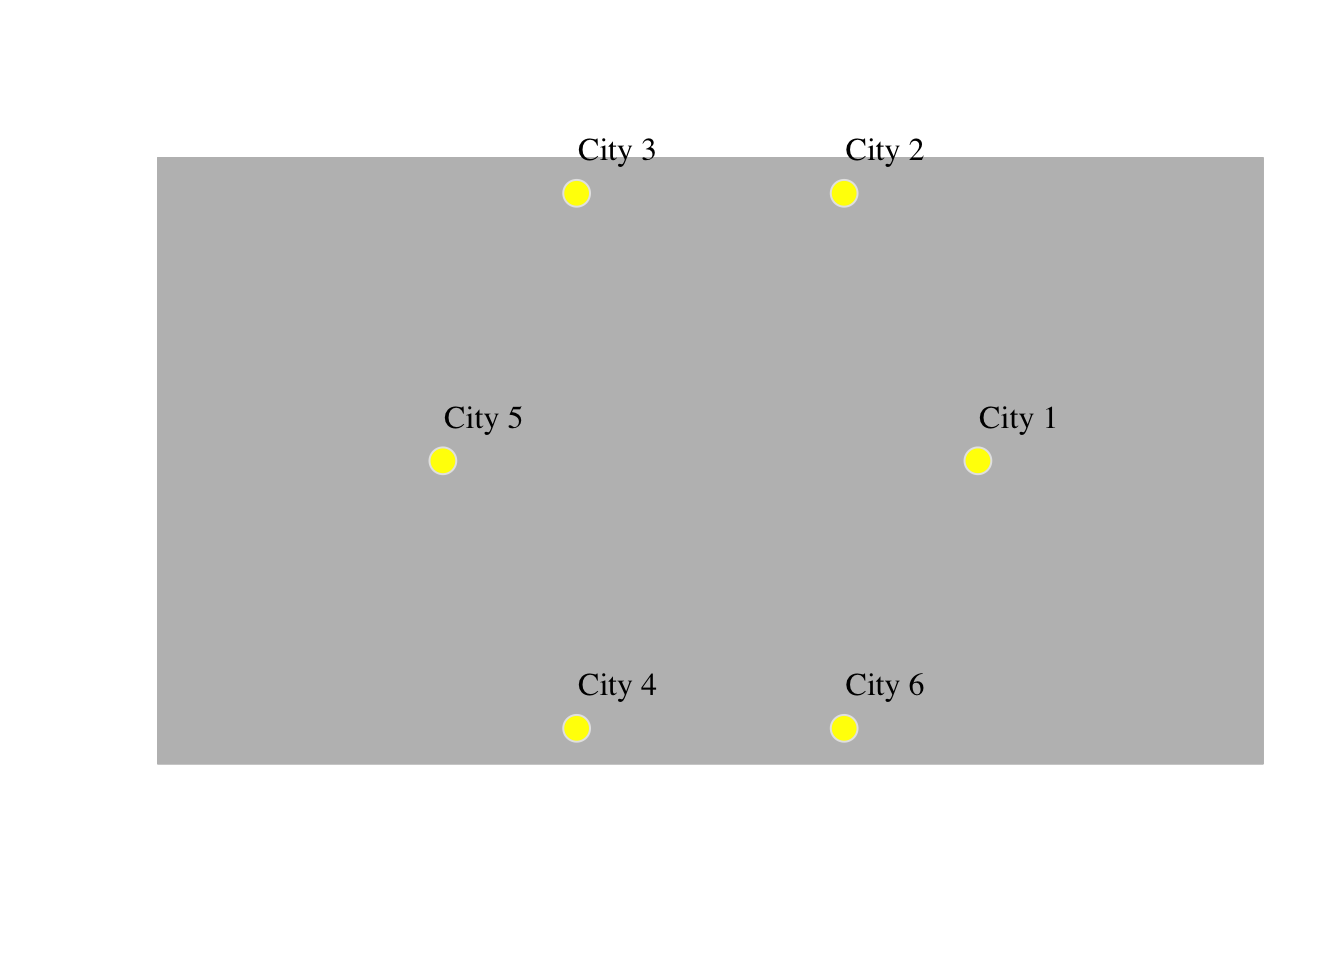
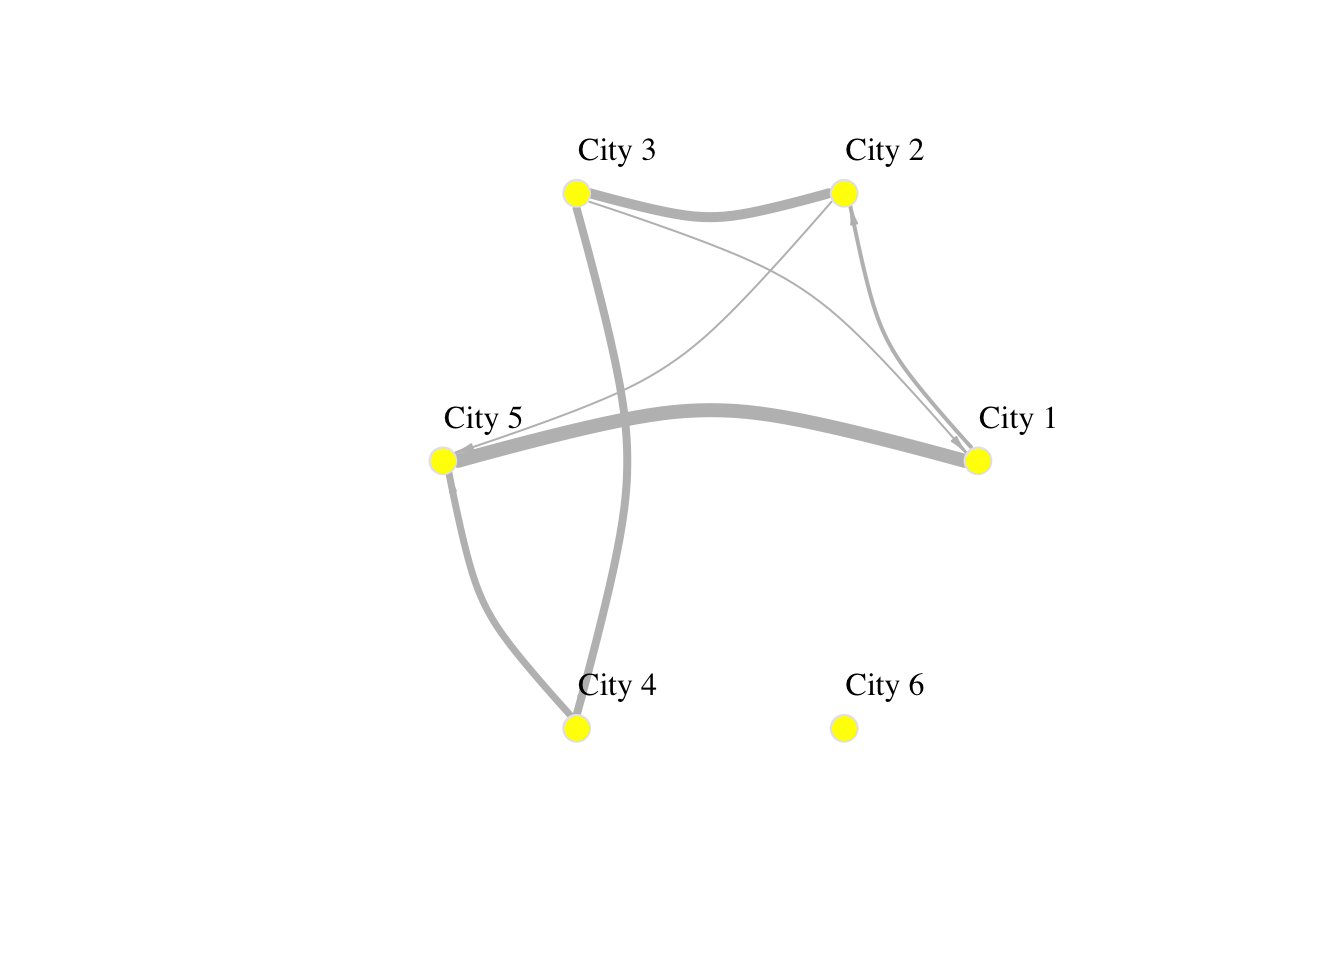
introduction-networks revision

diff --git a/docs/introduction-networks.html b/docs/introduction-networks.html
@@ -213,7 +213,6 @@ div.csl-indent {
   <li><a href="#degree" id="toc-degree" class="nav-link" data-scroll-target="#degree"><span class="header-section-number">2.3.3</span> Degree</a></li>
   <li><a href="#distance" id="toc-distance" class="nav-link" data-scroll-target="#distance"><span class="header-section-number">2.3.4</span> Distance</a></li>
   <li><a href="#centrality" id="toc-centrality" class="nav-link" data-scroll-target="#centrality"><span class="header-section-number">2.3.5</span> Centrality</a></li>
-  <li><a href="#hubs-and-authorities" id="toc-hubs-and-authorities" class="nav-link" data-scroll-target="#hubs-and-authorities"><span class="header-section-number">2.3.6</span> Hubs and authorities</a></li>
   </ul></li>
   </ul>
 </nav>
@@ -252,7 +251,7 @@ div.csl-indent {
 </section>
 <section id="creating-networks" class="level2" data-number="2.2">
 <h2 data-number="2.2" class="anchored" data-anchor-id="creating-networks"><span class="header-section-number">2.2</span> Creating networks</h2>
-<p>We first consider the components of a network object. Generally, a network (or a graph) consists of nodes (a.k.a. vertices) and edges (a.k.a. links). Edges link nodes to form a network. Networks are used as a tool to conceptualise many real-life situations, such as the friendships among members of a school year group, airline flights between cities or hyperlinks between websites.</p>
+<p>Networks are used as a tool to conceptualise many real-life situations where a group of items display connections among themselves, such as the friendships among members of a school year group, airline flights between cities or hyperlinks between websites. Generally, a network (or a graph) consists of nodes (a.k.a. vertices) and edges (a.k.a. links) which represent the connections between the nodes of the network.</p>
 <section id="starting-from-the-basics" class="level3" data-number="2.2.1">
 <h3 data-number="2.2.1" class="anchored" data-anchor-id="starting-from-the-basics"><span class="header-section-number">2.2.1</span> Starting from the basics</h3>
 <p>To understand the basic concepts and components of a network, we create a small example network in R using the igraph package. We create an undirected network of 5 nodes and 6 edges.</p>
@@ -299,7 +298,7 @@ div.csl-indent {
 <p><img src="introduction-networks_files/figure-html/unnamed-chunk-4-1.png" class="img-fluid" width="672"></p>
 </div>
 </div>
-<p>The network can also be defined as a list containing pairs of nodes with labels. In that case we do not need tospecify the number of nodes. We only specify the isolated nodes to be included.</p>
+<p>The network can also be defined as a list containing pairs of nodes with labels. In that case we do not need to specify the number of nodes. We only specify the isolated nodes to be included.</p>
 <div class="callout callout-style-default callout-note callout-titled">
 <div class="callout-header d-flex align-content-center">
 <div class="callout-icon-container">
@@ -328,16 +327,17 @@ Note
 <span id="cb4-12"><a href="#cb4-12" aria-hidden="true" tabindex="-1"></a></span>
 <span id="cb4-13"><a href="#cb4-13" aria-hidden="true" tabindex="-1"></a><span class="co"># plot</span></span>
 <span id="cb4-14"><a href="#cb4-14" aria-hidden="true" tabindex="-1"></a><span class="fu">plot</span>(network_isolated, </span>
-<span id="cb4-15"><a href="#cb4-15" aria-hidden="true" tabindex="-1"></a>      <span class="at">layout =</span> <span class="fu">layout.circle</span>(network_isolated),</span>
-<span id="cb4-16"><a href="#cb4-16" aria-hidden="true" tabindex="-1"></a>     <span class="at">vertex.frame.color=</span><span class="st">"red"</span>,  </span>
-<span id="cb4-17"><a href="#cb4-17" aria-hidden="true" tabindex="-1"></a>     <span class="at">vertex.label.color=</span><span class="st">"black"</span>,</span>
-<span id="cb4-18"><a href="#cb4-18" aria-hidden="true" tabindex="-1"></a>     <span class="at">vertex.label.cex=</span><span class="fl">0.9</span>, </span>
-<span id="cb4-19"><a href="#cb4-19" aria-hidden="true" tabindex="-1"></a>     <span class="at">vertex.label.dist=</span><span class="fl">2.3</span>, </span>
-<span id="cb4-20"><a href="#cb4-20" aria-hidden="true" tabindex="-1"></a>     <span class="at">edge.curved=</span><span class="fl">0.3</span>, </span>
-<span id="cb4-21"><a href="#cb4-21" aria-hidden="true" tabindex="-1"></a>     <span class="at">edge.arrow.size=</span>.<span class="dv">5</span>, </span>
-<span id="cb4-22"><a href="#cb4-22" aria-hidden="true" tabindex="-1"></a>     <span class="at">edge.color =</span> <span class="st">"blue"</span>, </span>
-<span id="cb4-23"><a href="#cb4-23" aria-hidden="true" tabindex="-1"></a>     <span class="at">vertex.color=</span><span class="st">"yellow"</span>, </span>
-<span id="cb4-24"><a href="#cb4-24" aria-hidden="true" tabindex="-1"></a>     <span class="at">vertex.size=</span><span class="dv">15</span>) </span></code><button title="Copy to Clipboard" class="code-copy-button"><i class="bi"></i></button></pre></div>
+<span id="cb4-15"><a href="#cb4-15" aria-hidden="true" tabindex="-1"></a>    <span class="at">layout =</span> <span class="fu">layout.circle</span>(network_isolated),</span>
+<span id="cb4-16"><a href="#cb4-16" aria-hidden="true" tabindex="-1"></a>     <span class="at">vertex.frame.color=</span><span class="st">"red"</span>,</span>
+<span id="cb4-17"><a href="#cb4-17" aria-hidden="true" tabindex="-1"></a>     <span class="at">vertex.color=</span><span class="st">"yellow"</span>, </span>
+<span id="cb4-18"><a href="#cb4-18" aria-hidden="true" tabindex="-1"></a>     <span class="at">vertex.size=</span><span class="dv">15</span>,</span>
+<span id="cb4-19"><a href="#cb4-19" aria-hidden="true" tabindex="-1"></a>     <span class="at">vertex.label.color=</span><span class="st">"black"</span>,</span>
+<span id="cb4-20"><a href="#cb4-20" aria-hidden="true" tabindex="-1"></a>     <span class="at">vertex.label.cex=</span><span class="fl">0.9</span>, </span>
+<span id="cb4-21"><a href="#cb4-21" aria-hidden="true" tabindex="-1"></a>     <span class="at">vertex.label.dist=</span><span class="fl">2.3</span>, </span>
+<span id="cb4-22"><a href="#cb4-22" aria-hidden="true" tabindex="-1"></a>     <span class="at">edge.curved=</span><span class="fl">0.3</span>, </span>
+<span id="cb4-23"><a href="#cb4-23" aria-hidden="true" tabindex="-1"></a>     <span class="at">edge.arrow.size=</span>.<span class="dv">5</span>, </span>
+<span id="cb4-24"><a href="#cb4-24" aria-hidden="true" tabindex="-1"></a>     <span class="at">edge.color =</span> <span class="st">"blue"</span></span>
+<span id="cb4-25"><a href="#cb4-25" aria-hidden="true" tabindex="-1"></a>     ) </span></code><button title="Copy to Clipboard" class="code-copy-button"><i class="bi"></i></button></pre></div>
 <div class="cell-output-display">
 <p><img src="introduction-networks_files/figure-html/unnamed-chunk-5-1.png" class="img-fluid" width="672"></p>
 </div>
@@ -349,7 +349,7 @@ Note
 <div class="cell">
 <div class="sourceCode cell-code" id="cb5"><pre class="sourceCode r code-with-copy"><code class="sourceCode r"><span id="cb5-1"><a href="#cb5-1" aria-hidden="true" tabindex="-1"></a><span class="fu">V</span>(network_isolated)</span></code><button title="Copy to Clipboard" class="code-copy-button"><i class="bi"></i></button></pre></div>
 <div class="cell-output cell-output-stdout">
-<pre><code>+ 6/6 vertices, named, from ec9e040:
+<pre><code>+ 6/6 vertices, named, from df876e3:
 [1] City 1 City 2 City 3 City 5 City 4 City 6</code></pre>
 </div>
 </div>
@@ -364,11 +364,11 @@ Note
 <div class="cell">
 <div class="sourceCode cell-code" id="cb9"><pre class="sourceCode r code-with-copy"><code class="sourceCode r"><span id="cb9-1"><a href="#cb9-1" aria-hidden="true" tabindex="-1"></a><span class="fu">V</span>(network_isolated)<span class="sc">$</span>population <span class="ot">&lt;-</span> <span class="fu">c</span>(<span class="dv">92000</span>, <span class="dv">549000</span>, <span class="dv">1786000</span>, <span class="dv">74000</span>, <span class="dv">8000</span>, <span class="dv">21000</span>)</span></code><button title="Copy to Clipboard" class="code-copy-button"><i class="bi"></i></button></pre></div>
 </div>
-<p>We can access the edges:</p>
+<p>We can also access the edges:</p>
 <div class="cell">
 <div class="sourceCode cell-code" id="cb10"><pre class="sourceCode r code-with-copy"><code class="sourceCode r"><span id="cb10-1"><a href="#cb10-1" aria-hidden="true" tabindex="-1"></a><span class="fu">E</span>(network_isolated)</span></code><button title="Copy to Clipboard" class="code-copy-button"><i class="bi"></i></button></pre></div>
 <div class="cell-output cell-output-stdout">
-<pre><code>+ 7/7 edges from ec9e040 (vertex names):
+<pre><code>+ 7/7 edges from df876e3 (vertex names):
 [1] City 1-&gt;City 2 City 2-&gt;City 3 City 2-&gt;City 5 City 3-&gt;City 1 City 3-&gt;City 4
 [6] City 4-&gt;City 5 City 5-&gt;City 1</code></pre>
 </div>
@@ -402,19 +402,19 @@ $population
 [1]   92000  549000 1786000   74000    8000   21000</code></pre>
 </div>
 </div>
-<p>We can also add a network attribute:</p>
+<p>And we can add network attributes:</p>
 <div class="cell">
 <div class="sourceCode cell-code" id="cb17"><pre class="sourceCode r code-with-copy"><code class="sourceCode r"><span id="cb17-1"><a href="#cb17-1" aria-hidden="true" tabindex="-1"></a>network_isolated<span class="sc">$</span>title <span class="ot">&lt;-</span> <span class="st">"Network of human mobility between cities"</span></span></code><button title="Copy to Clipboard" class="code-copy-button"><i class="bi"></i></button></pre></div>
 </div>
 </section>
 <section id="basic-visualisation" class="level3" data-number="2.2.3">
 <h3 data-number="2.2.3" class="anchored" data-anchor-id="basic-visualisation"><span class="header-section-number">2.2.3</span> Basic visualisation</h3>
-<p>You have already seen how we can visualise networks using the base R function <strong>plot</strong>. We will now elaborate on how individual components of the network can be visually adjusted using specific parameters in the plot function. More sophisticated data visualisations can be produced integrating geographic information, see Chapter 5 in <span class="citation" data-cites="roweetal2023-rps">Rowe, Cabrera-Arnau, and Piestrostefani (<a href="#ref-roweetal2023-rps" role="doc-biblioref">2023</a>)</span>.</p>
+<p>You have already seen how we can visualise networks using the base R function <code>plot()</code>. We will now elaborate on how individual components of the network can be visually adjusted using specific parameters in the plot function. More sophisticated data visualisations can be produced integrating geographic information, see Chapter 5 in <span class="citation" data-cites="roweetal2023-rps">Rowe, Cabrera-Arnau, and Piestrostefani (<a href="#ref-roweetal2023-rps" role="doc-biblioref">2023</a>)</span>, or using other packages such as <code>ggraph</code> in conjunction with <code>ggplot2</code> as we will see in the section on Percolation.</p>
 <div class="cell">
 <div class="sourceCode cell-code" id="cb18"><pre class="sourceCode r code-with-copy"><code class="sourceCode r"><span id="cb18-1"><a href="#cb18-1" aria-hidden="true" tabindex="-1"></a><span class="fu">plot</span>(network_isolated,</span>
 <span id="cb18-2"><a href="#cb18-2" aria-hidden="true" tabindex="-1"></a>     <span class="at">layout =</span> <span class="fu">layout.circle</span>(network_isolated),</span>
 <span id="cb18-3"><a href="#cb18-3" aria-hidden="true" tabindex="-1"></a>     <span class="co"># adjust nodes</span></span>
-<span id="cb18-4"><a href="#cb18-4" aria-hidden="true" tabindex="-1"></a>     <span class="at">vertex.frame.color =</span> <span class="st">"gray90"</span>,    <span class="co"># line colour</span></span>
+<span id="cb18-4"><a href="#cb18-4" aria-hidden="true" tabindex="-1"></a>     <span class="at">vertex.frame.color =</span> <span class="st">"gray90"</span>,   <span class="co"># line colour</span></span>
 <span id="cb18-5"><a href="#cb18-5" aria-hidden="true" tabindex="-1"></a>     <span class="at">vertex.label.color =</span> <span class="st">"black"</span>,    <span class="co"># label colour </span></span>
 <span id="cb18-6"><a href="#cb18-6" aria-hidden="true" tabindex="-1"></a>     <span class="at">vertex.label.cex =</span> <span class="dv">1</span>,            <span class="co"># label font size</span></span>
 <span id="cb18-7"><a href="#cb18-7" aria-hidden="true" tabindex="-1"></a>     <span class="at">vertex.label.dist =</span> <span class="dv">3</span>,           <span class="co"># label distance</span></span>
@@ -424,7 +424,7 @@ $population
 <span id="cb18-11"><a href="#cb18-11" aria-hidden="true" tabindex="-1"></a>     <span class="at">edge.curved=</span><span class="fl">0.3</span>,     <span class="co"># curvature</span></span>
 <span id="cb18-12"><a href="#cb18-12" aria-hidden="true" tabindex="-1"></a>     <span class="at">edge.arrow.size=</span><span class="fl">0.5</span>,  <span class="co"># size</span></span>
 <span id="cb18-13"><a href="#cb18-13" aria-hidden="true" tabindex="-1"></a>     <span class="at">edge.arrow.width=</span>.<span class="dv">5</span>,</span>
-<span id="cb18-14"><a href="#cb18-14" aria-hidden="true" tabindex="-1"></a>     <span class="at">edge.width=</span><span class="fu">E</span>(network_isolated)<span class="sc">$</span>weight,</span>
+<span id="cb18-14"><a href="#cb18-14" aria-hidden="true" tabindex="-1"></a>     <span class="at">edge.width=</span><span class="fu">E</span>(network_isolated)<span class="sc">$</span>weight<span class="sc">/</span><span class="dv">1000</span>,</span>
 <span id="cb18-15"><a href="#cb18-15" aria-hidden="true" tabindex="-1"></a>     <span class="at">edge.color =</span> <span class="st">"gray"</span>) <span class="co"># colour</span></span></code><button title="Copy to Clipboard" class="code-copy-button"><i class="bi"></i></button></pre></div>
 <div class="cell-output-display">
 <p><img src="introduction-networks_files/figure-html/unnamed-chunk-14-1.png" class="img-fluid" width="672"></p>
@@ -476,7 +476,7 @@ $population
 </section>
 <section id="distance" class="level3" data-number="2.3.4">
 <h3 data-number="2.3.4" class="anchored" data-anchor-id="distance"><span class="header-section-number">2.3.4</span> Distance</h3>
-<p>A path in a network between node <span class="math inline">\(A\)</span> and node <span class="math inline">\(B\)</span> is a sequence of edges joining distinct nodes, starting at node <span class="math inline">\(A\)</span> and ending at node <span class="math inline">\(B\)</span>. In a <strong>directed path</strong> edges are all directed at the same direction.</p>
+<p>A path in a network between node <span class="math inline">\(A\)</span> and node <span class="math inline">\(B\)</span> is a sequence of edges joining distinct nodes, starting at node <span class="math inline">\(A\)</span> and ending at node <span class="math inline">\(B\)</span>. In a <strong>directed path</strong> all edges follow the same direction.</p>
 <p>The path length between nodes <span class="math inline">\(A\)</span> and <span class="math inline">\(B\)</span> is generally defined as the number of edges forming a path. The shortest path is the minimum count of edges present to travel from <span class="math inline">\(A\)</span> to <span class="math inline">\(B\)</span>.</p>
 <p>The path length can be defined in alternative ways. For example, the path length can be defined as the sum of the weights of the edges forming a path if the edges are weighted.</p>
 <p>We can use the function <code>shortest_paths()</code> to find the shortest path between a given pair of nodes:</p>
@@ -489,13 +489,13 @@ $population
 <div class="cell-output cell-output-stdout">
 <pre><code>$vpath
 $vpath[[1]]
-+ 3/6 vertices, named, from ec9e040:
++ 3/6 vertices, named, from df876e3:
 [1] City 1 City 2 City 5
 
 
 $epath
 $epath[[1]]
-+ 2/7 edges from ec9e040 (vertex names):
++ 2/7 edges from df876e3 (vertex names):
 [1] City 1-&gt;City 2 City 2-&gt;City 5
 
 
@@ -528,7 +528,7 @@ NULL</code></pre>
 <section id="centrality" class="level3" data-number="2.3.5">
 <h3 data-number="2.3.5" class="anchored" data-anchor-id="centrality"><span class="header-section-number">2.3.5</span> Centrality</h3>
 <p>Centrality metrics assign scores to nodes (and sometimes also edges) according to their position within a network. These metrics can be used to identify the most influential nodes.</p>
-<p>We can measure the degree of a node, or the weighted degree of a node. This is known as the strength of a node. It is the sum of edge weights linked to adjacent nodes, or also known as in-flow or out-flow associated with each node.</p>
+<p>We can measure the degree of a node as we did before, but we can also measure its weighted degree. This is known as the strength of a node and it is computed as the sum of edge weights linked to adjacent nodes. Both degree and strength are considered to be centrality metrics.</p>
 <div class="cell">
 <div class="sourceCode cell-code" id="cb30"><pre class="sourceCode r code-with-copy"><code class="sourceCode r"><span id="cb30-1"><a href="#cb30-1" aria-hidden="true" tabindex="-1"></a><span class="co"># compute strength of network nodes</span></span>
 <span id="cb30-2"><a href="#cb30-2" aria-hidden="true" tabindex="-1"></a>net_strength <span class="ot">&lt;-</span> <span class="fu">strength</span>(network_isolated, <span class="co"># network object</span></span>
@@ -546,7 +546,7 @@ NULL</code></pre>
 <p><img src="introduction-networks_files/figure-html/unnamed-chunk-21-1.png" class="img-fluid" width="672"></p>
 </div>
 </div>
-<p>Two important centrality metrics are (1) closeness centrality, and (2) betweenness centrality. Closeness centrality is a measure of the shortest path length between a node and all the other nodes. For a given node, it is computed as the inverse of the average shortest paths between that node and every other node in the network. A node with closeness centrality close to 1 indicates that on average the node is very close to the other nodes in the network. A closeness centrality of 0 represents an isolated node.</p>
+<p>Another two important centrality metrics are (1) closeness centrality, and (2) betweenness centrality. Closeness centrality is a measure of the shortest path length between a node and all the other nodes. For a given node, it is computed as the inverse of the average shortest paths between that node and every other node in the network. A node with closeness centrality close to 1 indicates that on average the node is very close to the other nodes in the network. A closeness centrality of 0 represents an isolated node.</p>
 <div class="cell">
 <div class="sourceCode cell-code" id="cb31"><pre class="sourceCode r code-with-copy"><code class="sourceCode r"><span id="cb31-1"><a href="#cb31-1" aria-hidden="true" tabindex="-1"></a>close_centr <span class="ot">&lt;-</span> <span class="fu">closeness</span>(network_isolated, </span>
 <span id="cb31-2"><a href="#cb31-2" aria-hidden="true" tabindex="-1"></a>                         <span class="at">mode=</span><span class="st">"in"</span>, </span>
@@ -571,33 +571,6 @@ NULL</code></pre>
 <span id="cb32-8"><a href="#cb32-8" aria-hidden="true" tabindex="-1"></a>     <span class="at">main =</span> <span class="st">"Histogram of betweenness centrality"</span>)</span></code><button title="Copy to Clipboard" class="code-copy-button"><i class="bi"></i></button></pre></div>
 <div class="cell-output-display">
 <p><img src="introduction-networks_files/figure-html/unnamed-chunk-23-1.png" class="img-fluid" width="672"></p>
-</div>
-</div>
-</section>
-<section id="hubs-and-authorities" class="level3" data-number="2.3.6">
-<h3 data-number="2.3.6" class="anchored" data-anchor-id="hubs-and-authorities"><span class="header-section-number">2.3.6</span> Hubs and authorities</h3>
-<p>We call hubs or authorities nodes with a higher-than-average degree. Normally, the name hub is used to nodes with high out-degree. Authority is used to nodes with high in-degree. Jon Kleinberg developed an algorithm to detect hubs and authorities.</p>
-<div class="cell">
-<div class="sourceCode cell-code" id="cb33"><pre class="sourceCode r code-with-copy"><code class="sourceCode r"><span id="cb33-1"><a href="#cb33-1" aria-hidden="true" tabindex="-1"></a>net_hub <span class="ot">&lt;-</span> <span class="fu">hub_score</span>(network_isolated, </span>
-<span id="cb33-2"><a href="#cb33-2" aria-hidden="true" tabindex="-1"></a>                <span class="at">weights=</span><span class="cn">NULL</span>)<span class="sc">$</span>vector <span class="co">#  use the weighted edges</span></span>
-<span id="cb33-3"><a href="#cb33-3" aria-hidden="true" tabindex="-1"></a></span>
-<span id="cb33-4"><a href="#cb33-4" aria-hidden="true" tabindex="-1"></a><span class="fu">hist</span>(net_hub, </span>
-<span id="cb33-5"><a href="#cb33-5" aria-hidden="true" tabindex="-1"></a>     <span class="at">breaks =</span> <span class="dv">50</span>, </span>
-<span id="cb33-6"><a href="#cb33-6" aria-hidden="true" tabindex="-1"></a>     <span class="at">main =</span> <span class="st">"Histogram of hub score"</span>)</span></code><button title="Copy to Clipboard" class="code-copy-button"><i class="bi"></i></button></pre></div>
-<div class="cell-output-display">
-<p><img src="introduction-networks_files/figure-html/unnamed-chunk-24-1.png" class="img-fluid" width="672"></p>
-</div>
-</div>
-<p>We can also explore the authority score for each node:</p>
-<div class="cell">
-<div class="sourceCode cell-code" id="cb34"><pre class="sourceCode r code-with-copy"><code class="sourceCode r"><span id="cb34-1"><a href="#cb34-1" aria-hidden="true" tabindex="-1"></a>net_aut <span class="ot">&lt;-</span> <span class="fu">authority_score</span>(network_isolated, </span>
-<span id="cb34-2"><a href="#cb34-2" aria-hidden="true" tabindex="-1"></a>                           <span class="at">weights=</span><span class="cn">NULL</span>)<span class="sc">$</span>vector</span>
-<span id="cb34-3"><a href="#cb34-3" aria-hidden="true" tabindex="-1"></a></span>
-<span id="cb34-4"><a href="#cb34-4" aria-hidden="true" tabindex="-1"></a><span class="fu">hist</span>(net_aut, </span>
-<span id="cb34-5"><a href="#cb34-5" aria-hidden="true" tabindex="-1"></a>     <span class="at">breaks =</span> <span class="dv">50</span>, </span>
-<span id="cb34-6"><a href="#cb34-6" aria-hidden="true" tabindex="-1"></a>     <span class="at">main =</span> <span class="st">"Histogram of authority score"</span>)</span></code><button title="Copy to Clipboard" class="code-copy-button"><i class="bi"></i></button></pre></div>
-<div class="cell-output-display">
-<p><img src="introduction-networks_files/figure-html/unnamed-chunk-25-1.png" class="img-fluid" width="672"></p>
 </div>
 </div>
 

diff --git a/docs/index.html b/docs/index.html
@@ -184,7 +184,7 @@ ul.task-list li input[type="checkbox"] {
 
 <section id="welcome" class="level1 unnumbered">
 <h1 class="unnumbered">Welcome</h1>
-<p>This website hosts the materials for the workshop “An Introduction to Network Analysis for GIS”. The training workshop was designed by Dr Carmen Cabrera-Arnau, Prof Francisco Rowe, Andrew Renninger, Valentina Marin Maureira and Dr Rafael Prieto Curiel.</p>
+<p>This website hosts the materials for the workshop “An Introduction to Network Analysis for GIS”. The training workshop was designed by Dr Carmen Cabrera-Arnau, with contributions from Prof Francisco Rowe, Andrew Renninger, Valentina Marin Maureira and Dr Rafael Prieto Curiel.</p>
 <p>The website is free to use and is licensed under the Attribution-NonCommercial-NoDerivatives 4.0 International.</p>
 </section>
 <section id="contact" class="level1 unnumbered">
